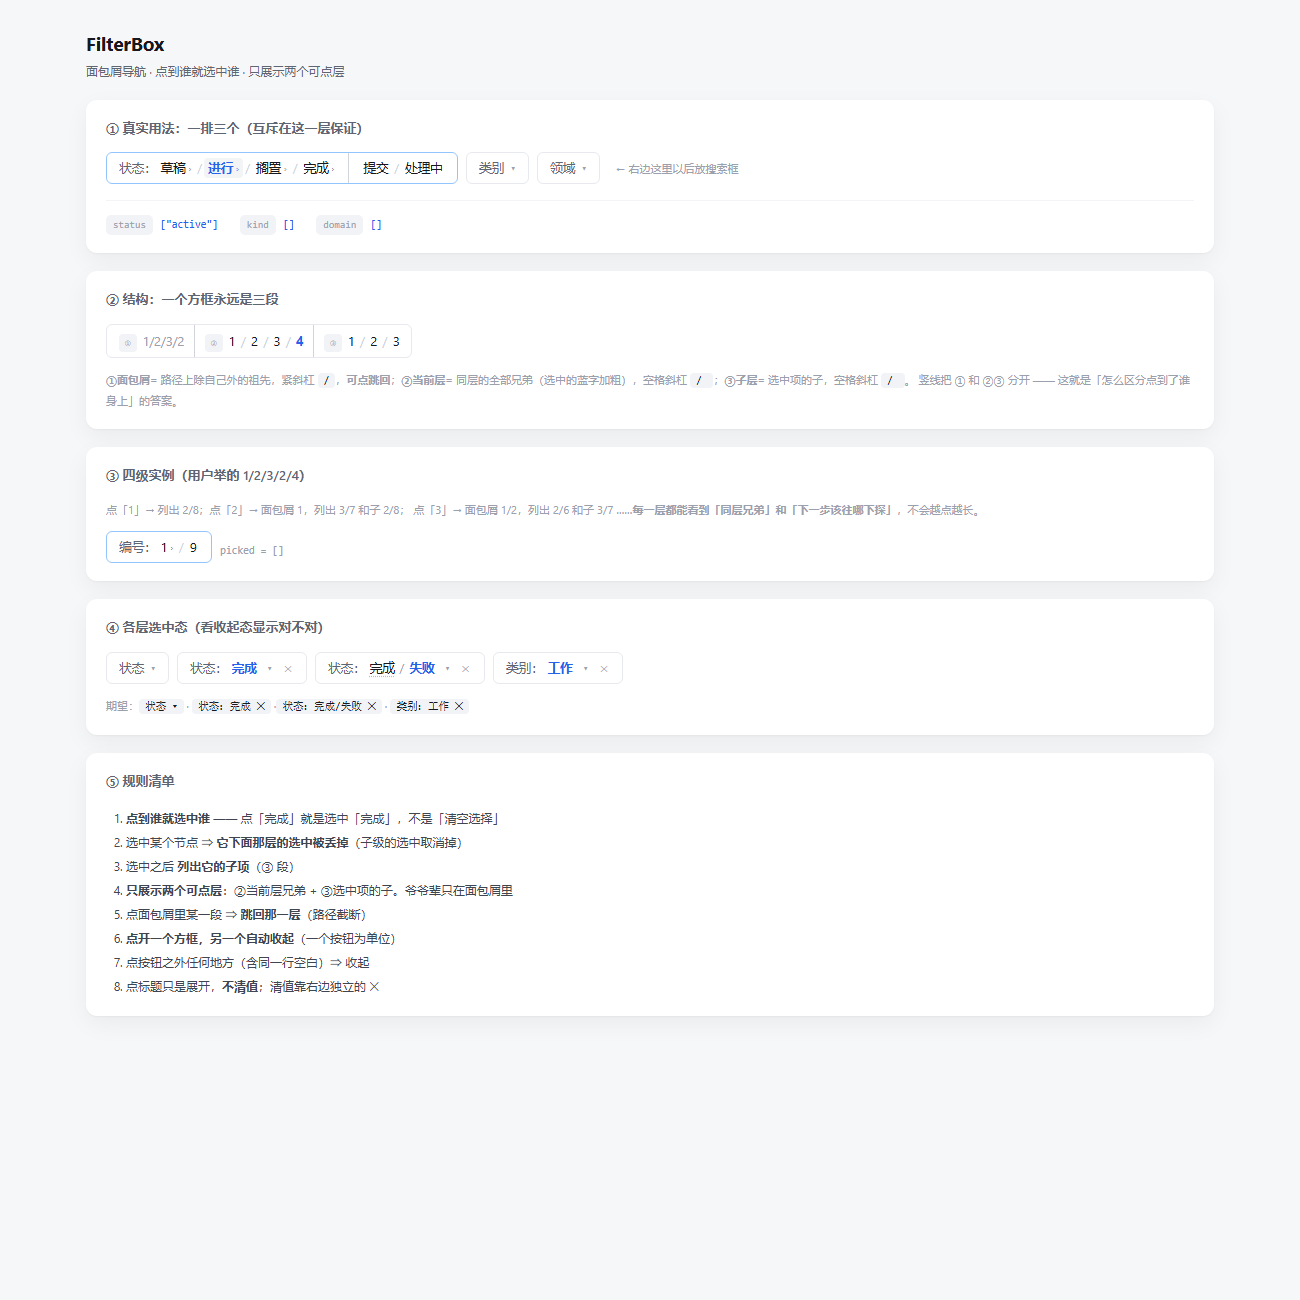
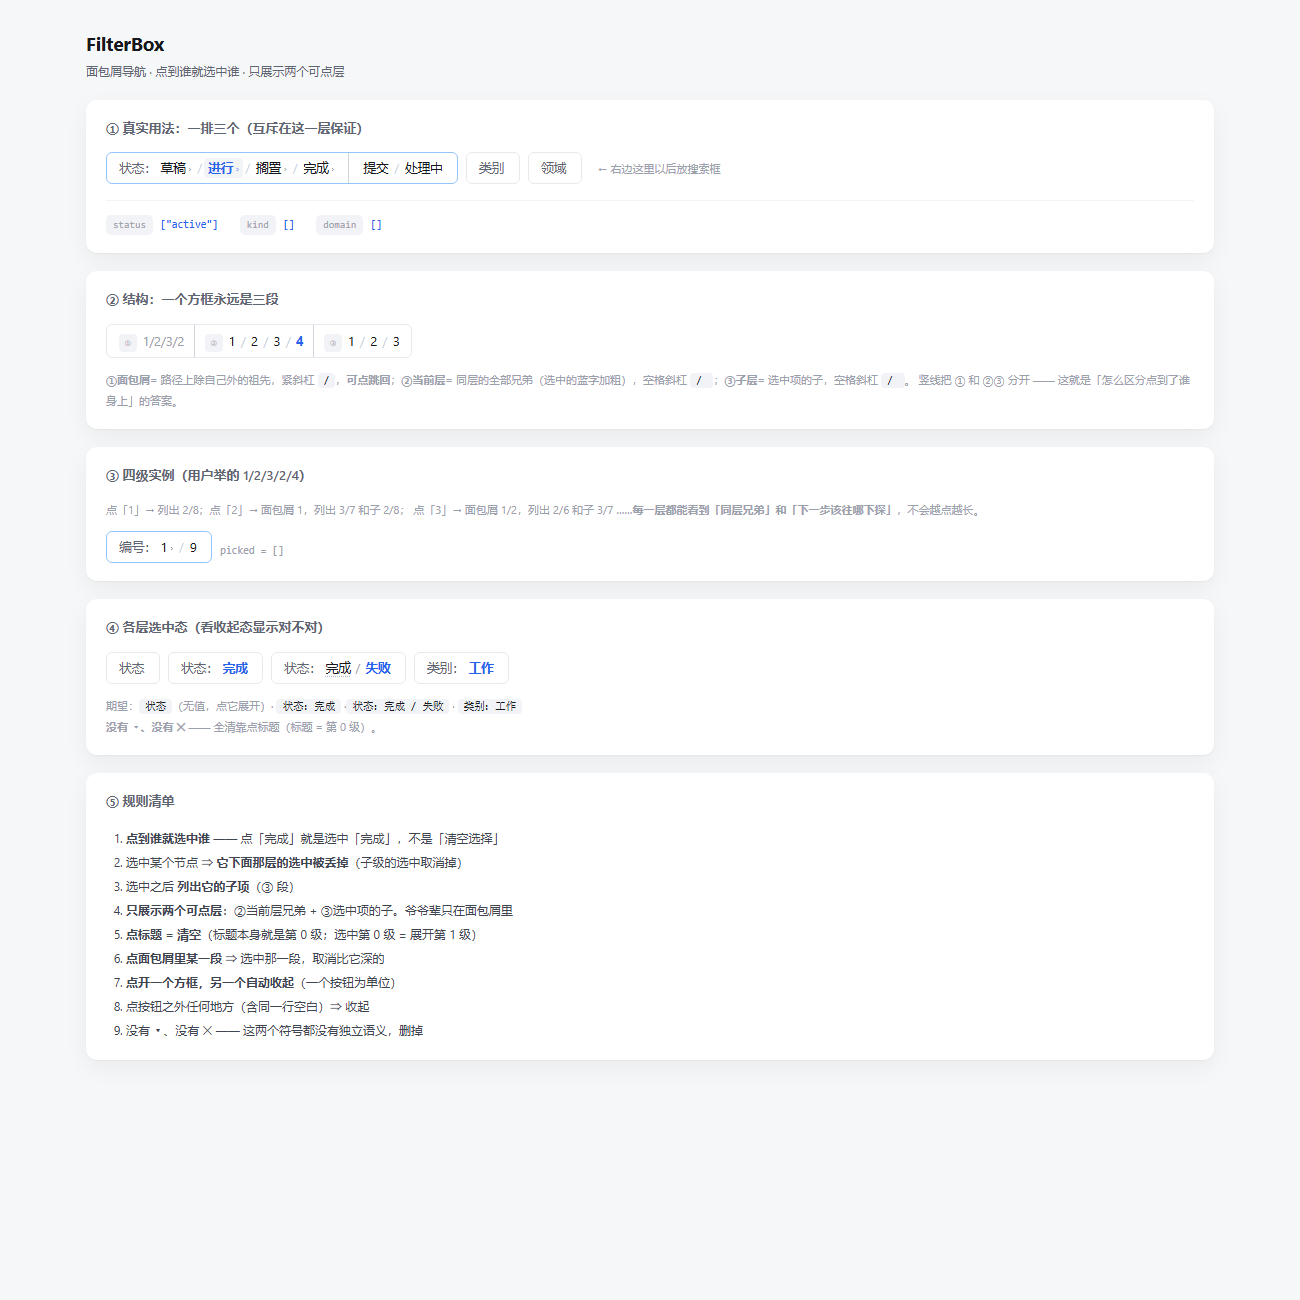
refactor(dsh-client): 删掉 ▾ 和 ✕，标题成为第 0 级（点它 = 清空）
用户 2026-11-16 看截图问「这两符号是干啥的？」。

## ▾ 是多余的

整个方框本来就能点（收起态点它展开）。▾ 和主体**行为完全一样**，
只是抄旧版留下的。旧版它本来有独立语义（旧版左区=取消并展开、右区 ▾=只展开），
但我们把「点主体不清值」定成规则后，两个区行为一致了，▾ 就没用了。

## ✕ 是我加的，不该加

之前为了「怎么全清」加了个独立按钮。用户给了更好的答案：

> 「这个标题本身就是第0级。选中第0级，展开第1级，这个意思就是清空。」

⇒ 层级图：

  状态：  [进行] / [提交]
  └第0级   └第1级  └第2级
   点它
   =清空

标题 = 第 0 级，点它 = 选中第 0 级 = 清空 + 展开第 1 级。
全清不再需要单独的按钮。

## 改动

- collapsed face 里删掉 `<span class="filter-box__caret">▾</span>`
- 删掉 `.filter-box__clear` 那个 span 及其 CSS
- 标题从 `<span>` 改成 `<button class="filter-box__title filter-box__title--clickable">`
  · 有值时：清空 + 展开
  · 无值时：展开
- 面包屑每段仍然是独立按钮（上一轮已做）

## 验证

- CDP 断言新增：没有 ▾ ✅ / 没有 ✕ ✅ / 标题是按钮 ✅ / 点标题后清空且展开 ✅
- 单测 37 条 / 全仓 511 全绿 / 连跑 3 遍
- 0 JS 错误
- 收起态宽度实测：内容 110px，盒 135px（+24 内边距 +1 边框）

Changed region(s): [[0.0923, 0.4923, 0.4308, 0.8], [0.4, 0.1231, 0.5538, 0.1538]]

diff --git a/packages/dsh-client/preview/filter-box.html b/packages/dsh-client/preview/filter-box.html
@@ -83,13 +83,19 @@ html,body{margin:0;height:100%;font-family:-apple-system,'Segoe UI','Microsoft Y
 .filter-box__zone{display:inline-flex;align-items:center}
 .filter-box__caret{padding-left:5px;font-size:10px;color:#9aa1ad}
 
-/* 清空：独立的小按钮（只在有值时出现）。不是「点主体就清空」。 */
-.filter-box__clear{
-  display:inline-flex;align-items:center;justify-content:center;
-  width:16px;height:16px;margin-left:6px;border-radius:4px;
-  font-size:9px;color:#9aa1ad;cursor:pointer;user-select:none;
+/*
+ * ⚠ 收起态标题是一个按钮（= 第 0 级）。**不要**继承上一条的 caret 样式。
+ *   它是全清入口，用户要能看出它可点。
+ */
+.filter-box__title--clickable{
+  border:0;background:none;padding:0;font-family:inherit;font-size:12.5px;
+  color:var(--text-secondary);cursor:pointer;border-radius:4px;
 }
-.filter-box__clear:hover{background:#f1f3f6;color:#dc2626}
+.filter-box__title--clickable:hover{background:#f3f4f6;color:var(--text)}
+
+/*
+ * ⚠ 清空不再是独立按钮（点标题就行），这条留作历史说明，样式已删。
+ */
 
 /* ① 面包屑：祖先链，紧斜杠 */
 .filter-box__crumbs{display:inline-flex;align-items:center}
@@ -17375,8 +17381,15 @@ html,body{margin:0;height:100%;font-family:-apple-system,'Segoe UI','Microsoft Y
 				ref: collapsedRef,
 				className: "filter-box__face filter-box__face--collapsed",
 				children: [
-					/* @__PURE__ */ (0, import_jsx_runtime.jsx)("span", {
-						className: "filter-box__title",
+					/* @__PURE__ */ (0, import_jsx_runtime.jsx)("button", {
+						type: "button",
+						className: "filter-box__title filter-box__title--clickable",
+						title: hasValue ? "清空筛选（选中第 0 级）" : "展开",
+						onClick: (event) => {
+							event.stopPropagation();
+							if (hasValue) pick([]);
+							props.onOpenChange(true);
+						},
 						children: props.title
 					}),
 					hasValue && /* @__PURE__ */ (0, import_jsx_runtime.jsxs)(import_jsx_runtime.Fragment, { children: [/* @__PURE__ */ (0, import_jsx_runtime.jsx)("span", {
@@ -17401,27 +17414,7 @@ html,body{margin:0;height:100%;font-family:-apple-system,'Segoe UI','Microsoft Y
 							})]
 						}, `cc-${crumb.value}`))
 					})] }),
-					/* @__PURE__ */ (0, import_jsx_runtime.jsx)("span", {
-						className: "filter-box__caret",
-						children: "▾"
-					}),
-					hasValue && /* @__PURE__ */ (0, import_jsx_runtime.jsx)("span", {
-						className: "filter-box__clear",
-						title: "清空筛选",
-						role: "button",
-						tabIndex: 0,
-						onClick: (event) => {
-							event.stopPropagation();
-							pick([]);
-						},
-						onKeyDown: (event) => {
-							if (event.key !== "Enter" && event.key !== " ") return;
-							event.preventDefault();
-							event.stopPropagation();
-							pick([]);
-						},
-						children: "✕"
-					})
+					!hasValue && /* @__PURE__ */ (0, import_jsx_runtime.jsx)("span", { className: "filter-box__caret" })
 				]
 			}), /* @__PURE__ */ (0, import_jsx_runtime.jsxs)("div", {
 				ref: expandedRef,
@@ -17943,13 +17936,16 @@ html,body{margin:0;height:100%;font-family:-apple-system,'Segoe UI','Microsoft Y
 							},
 							children: [
 								"期望：",
-								/* @__PURE__ */ (0, import_jsx_runtime.jsx)("code", { children: "状态 ▾" }),
-								" · ",
-								/* @__PURE__ */ (0, import_jsx_runtime.jsx)("code", { children: "状态：完成 ✕" }),
+								/* @__PURE__ */ (0, import_jsx_runtime.jsx)("code", { children: "状态" }),
+								"（无值，点它展开）· ",
+								/* @__PURE__ */ (0, import_jsx_runtime.jsx)("code", { children: "状态：完成" }),
 								" ·",
-								/* @__PURE__ */ (0, import_jsx_runtime.jsx)("code", { children: "状态：完成/失败 ✕" }),
+								/* @__PURE__ */ (0, import_jsx_runtime.jsx)("code", { children: "状态：完成 / 失败" }),
 								" · ",
-								/* @__PURE__ */ (0, import_jsx_runtime.jsx)("code", { children: "类别：工作 ✕" })
+								/* @__PURE__ */ (0, import_jsx_runtime.jsx)("code", { children: "类别：工作" }),
+								/* @__PURE__ */ (0, import_jsx_runtime.jsx)("br", {}),
+								/* @__PURE__ */ (0, import_jsx_runtime.jsx)("b", { children: "没有 ▾、没有 ✕" }),
+								" —— 全清靠点标题（标题 = 第 0 级）。"
 							]
 						})
 					]
@@ -17971,18 +17967,11 @@ html,body{margin:0;height:100%;font-family:-apple-system,'Segoe UI','Microsoft Y
 								"（③ 段）"
 							] }),
 							/* @__PURE__ */ (0, import_jsx_runtime.jsxs)("li", { children: [/* @__PURE__ */ (0, import_jsx_runtime.jsx)("b", { children: "只展示两个可点层" }), "：②当前层兄弟 + ③选中项的子。爷爷辈只在面包屑里"] }),
-							/* @__PURE__ */ (0, import_jsx_runtime.jsxs)("li", { children: [
-								"点面包屑里某一段 ⇒ ",
-								/* @__PURE__ */ (0, import_jsx_runtime.jsx)("b", { children: "跳回那一层" }),
-								"（路径截断）"
-							] }),
+							/* @__PURE__ */ (0, import_jsx_runtime.jsxs)("li", { children: [/* @__PURE__ */ (0, import_jsx_runtime.jsx)("b", { children: "点标题 = 清空" }), "（标题本身就是第 0 级；选中第 0 级 = 展开第 1 级）"] }),
+							/* @__PURE__ */ (0, import_jsx_runtime.jsxs)("li", { children: [/* @__PURE__ */ (0, import_jsx_runtime.jsx)("b", { children: "点面包屑里某一段" }), " ⇒ 选中那一段，取消比它深的"] }),
 							/* @__PURE__ */ (0, import_jsx_runtime.jsxs)("li", { children: [/* @__PURE__ */ (0, import_jsx_runtime.jsx)("b", { children: "点开一个方框，另一个自动收起" }), "（一个按钮为单位）"] }),
 							/* @__PURE__ */ (0, import_jsx_runtime.jsx)("li", { children: "点按钮之外任何地方（含同一行空白）⇒ 收起" }),
-							/* @__PURE__ */ (0, import_jsx_runtime.jsxs)("li", { children: [
-								"点标题只是展开，",
-								/* @__PURE__ */ (0, import_jsx_runtime.jsx)("b", { children: "不清值" }),
-								"；清值靠右边独立的 ✕"
-							] })
+							/* @__PURE__ */ (0, import_jsx_runtime.jsx)("li", { children: "没有 ▾、没有 ✕ —— 这两个符号都没有独立语义，删掉" })
 						]
 					})]
 				})

diff --git a/packages/dsh-client/src/components/FilterBox.tsx b/packages/dsh-client/src/components/FilterBox.tsx
@@ -116,9 +116,39 @@ export function FilterBox(props: FilterBoxProps): ReactNode {
 				if (!props.open) props.onOpenChange(true);
 			}}
 		>
-			{/* ── 收起态：面包屑，每一段独立可点 ── */}
+			{/*
+			 * ── 收起态：标题 + 面包屑 ──
+			 *
+			 * ## 「标题 = 第 0 级」——用户 `2026-11-16` 定的
+			 *
+			 * > 「这个标题本身就是第0级。选中第0级，展开第1级，这个意思就是清空。」
+			 *
+			 * ⇒ 点标题 = **清空所有选择**并展开（= 选中第 0 级）。
+			 *   这是**唯一**的全清入口，所以不再需要独立的 ✕ 按钮，
+			 *   也不再需要 `▾`（它没有独立语义）。
+			 *
+			 * 层级图：
+			 *
+			 * ```
+			 *   状态：  [进行] / [提交]
+			 *   └第0级   └第1级  └第2级
+			 *    点它
+			 *    =清空
+			 * ```
+			 */}
 			<div ref={collapsedRef} className="filter-box__face filter-box__face--collapsed">
-				<span className="filter-box__title">{props.title}</span>
+				<button
+					type="button"
+					className="filter-box__title filter-box__title--clickable"
+					title={hasValue ? '清空筛选（选中第 0 级）' : '展开'}
+					onClick={(event) => {
+						event.stopPropagation();
+						if (hasValue) pick([]);
+						props.onOpenChange(true);
+					}}
+				>
+					{props.title}
+				</button>
 				{hasValue && (
 					<>
 						<span className="filter-box__colon">：</span>
@@ -144,27 +174,8 @@ export function FilterBox(props: FilterBoxProps): ReactNode {
 						</span>
 					</>
 				)}
-				<span className="filter-box__caret">▾</span>
-				{hasValue && (
-					<span
-						className="filter-box__clear"
-						title="清空筛选"
-						role="button"
-						tabIndex={0}
-						onClick={(event) => {
-							event.stopPropagation();
-							pick([]);
-						}}
-						onKeyDown={(event) => {
-							if (event.key !== 'Enter' && event.key !== ' ') return;
-							event.preventDefault();
-							event.stopPropagation();
-							pick([]);
-						}}
-					>
-						✕
-					</span>
-				)}
+				{/* 没值时点空白处也能展开（标题已经是按钮了，这里只是兜住右侧留白）。 */}
+				{!hasValue && <span className="filter-box__caret" />}
 			</div>
 
 			{/* ── 展开态：三段 ── */}

diff --git a/packages/dsh-client/src/preview/main.tsx b/packages/dsh-client/src/preview/main.tsx
@@ -212,8 +212,10 @@ function App(): React.ReactNode {
 					/>
 				</div>
 				<p className="pv-note" style={{ marginTop: 12, marginBottom: 0 }}>
-					期望：<code>状态 ▾</code> · <code>状态：完成 ✕</code> ·
-					<code>状态：完成/失败 ✕</code> · <code>类别：工作 ✕</code>
+					期望：<code>状态</code>（无值，点它展开）· <code>状态：完成</code> ·
+					<code>状态：完成 / 失败</code> · <code>类别：工作</code>
+					<br />
+					<b>没有 ▾、没有 ✕</b> —— 全清靠点标题（标题 = 第 0 级）。
 				</p>
 			</section>
 
@@ -233,13 +235,16 @@ function App(): React.ReactNode {
 						<b>只展示两个可点层</b>：②当前层兄弟 + ③选中项的子。爷爷辈只在面包屑里
 					</li>
 					<li>
-						点面包屑里某一段 ⇒ <b>跳回那一层</b>（路径截断）
+						<b>点标题 = 清空</b>（标题本身就是第 0 级；选中第 0 级 = 展开第 1 级）
+					</li>
+					<li>
+						<b>点面包屑里某一段</b> ⇒ 选中那一段，取消比它深的
 					</li>
 					<li>
 						<b>点开一个方框，另一个自动收起</b>（一个按钮为单位）
 					</li>
 					<li>点按钮之外任何地方（含同一行空白）⇒ 收起</li>
-					<li>点标题只是展开，<b>不清值</b>；清值靠右边独立的 ✕</li>
+					<li>没有 ▾、没有 ✕ —— 这两个符号都没有独立语义，删掉</li>
 				</ol>
 			</section>
 		</div>

diff --git a/packages/dsh-client/src/preview/preview.css b/packages/dsh-client/src/preview/preview.css
@@ -77,13 +77,19 @@ html,body{margin:0;height:100%;font-family:-apple-system,'Segoe UI','Microsoft Y
 .filter-box__zone{display:inline-flex;align-items:center}
 .filter-box__caret{padding-left:5px;font-size:10px;color:#9aa1ad}
 
-/* 清空：独立的小按钮（只在有值时出现）。不是「点主体就清空」。 */
-.filter-box__clear{
-  display:inline-flex;align-items:center;justify-content:center;
-  width:16px;height:16px;margin-left:6px;border-radius:4px;
-  font-size:9px;color:#9aa1ad;cursor:pointer;user-select:none;
+/*
+ * ⚠ 收起态标题是一个按钮（= 第 0 级）。**不要**继承上一条的 caret 样式。
+ *   它是全清入口，用户要能看出它可点。
+ */
+.filter-box__title--clickable{
+  border:0;background:none;padding:0;font-family:inherit;font-size:12.5px;
+  color:var(--text-secondary);cursor:pointer;border-radius:4px;
 }
-.filter-box__clear:hover{background:#f1f3f6;color:#dc2626}
+.filter-box__title--clickable:hover{background:#f3f4f6;color:var(--text)}
+
+/*
+ * ⚠ 清空不再是独立按钮（点标题就行），这条留作历史说明，样式已删。
+ */
 
 /* ① 面包屑：祖先链，紧斜杠 */
 .filter-box__crumbs{display:inline-flex;align-items:center}
